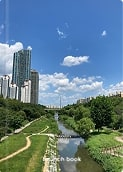
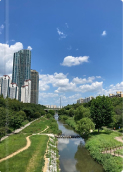
feat: bookcover 하단로고 생성
resolve #20

diff --git a/src/components/bookcover/index.html b/src/components/bookcover/index.html
@@ -18,15 +18,16 @@
 	<body>
 		<div class="book-card">
 			<picture class="book-image">
-				<source srcset="/src/assets/bookcover-img/Background.avif" type="image/avif" />
-				<source srcset="/src/assets/bookcover-img/Background.jpg" type="image/jpg" />
-				<source srcset="/src/assets/bookcover-img/Background.webp" type="image/webp" />
-				<img src="/src/assets/bookcover-img/Background.png" alt="책사진" />
+				<source srcset="/src/assets/bookcover-img/background.avif" type="image/avif" />
+				<source srcset="/src/assets/bookcover-img/background.jpg" type="image/jpg" />
+				<source srcset="/src/assets/bookcover-img/background.webp" type="image/webp" />
+				<img src="/src/assets/bookcover-img/background.jpg" alt="책사진" />
 			</picture>
 			<div class="book-info">
-				<span class="book-title">강남 안에,<br />강북 남자</span>
+				<cite class="book-title">강남 안에,<br />강북 남자</cite>
 				<span class="book-author">눅눅한과자</span>
 			</div>
+			<span class="book-logo">brunch book</span>
 		</div>
 	</body>
 </html>

diff --git a/src/components/bookcover/style.css b/src/components/bookcover/style.css
@@ -1,13 +1,11 @@
-:root {
+.book-card {
 	--width: 122px;
 	--height: 172px;
 	--info-width: 70px;
 	--info-height: 92px;
 	--booktitle-size: 10.75px;
 	--bookauthor-size: 7.6px;
-}
 
-.book-card {
 	position: relative;
 	display: inline-block;
 }
@@ -33,6 +31,7 @@
 		color: #333;
 		font-size: var(--booktitle-size);
 		font-weight: var(--weight-light);
+		font-style: normal;
 	}
 
 	.book-author {
@@ -40,4 +39,14 @@
 		font-size: var(--bookauthor-size);
 		font-weight: var(--weight-light);
 	}
+}
+
+.book-logo {
+	position: absolute;
+	bottom: 8px;
+	left: 50%;
+	transform: translateX(-50%);
+	font-size: 6px;
+	font-weight: bold;
+	color: var(--color-white);
 }
